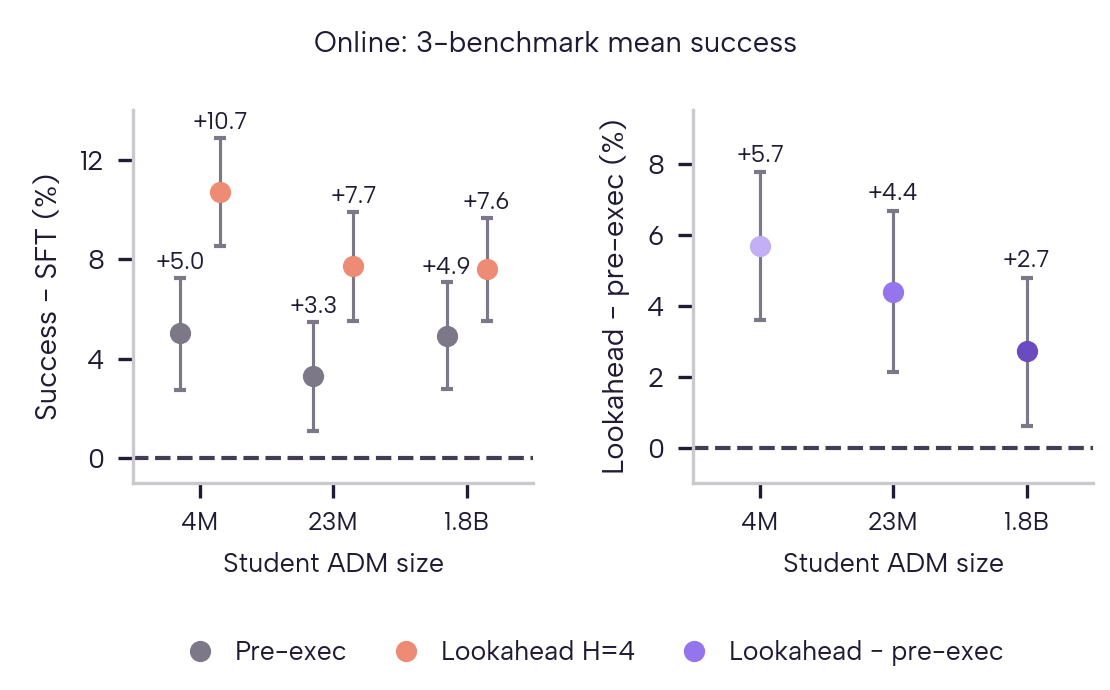
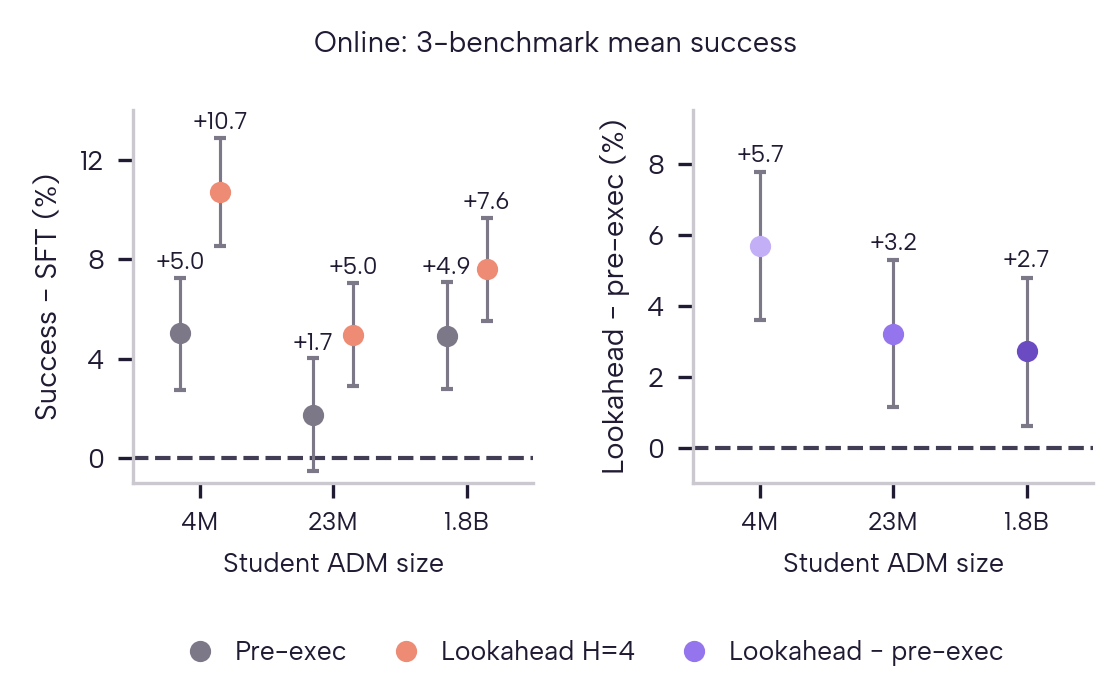
Use earliest 23M pre-execution and lookahead deltas in paper plot

diff --git a/openwebrl/docs/arm_results/rl_integration/selection-head-pre-vs-lookahead-paper-4m-1p8b-20261115-plot.py b/openwebrl/docs/arm_results/rl_integration/selection-head-pre-vs-lookahead-paper-4m-1p8b-20261115-plot.py
@@ -1,8 +1,9 @@
 #!/usr/bin/env python3
-"""Paper comparison at 4.4M, 22.6M and 1.8B: gains over SFT and paired
-lookahead minus pre-execution differences, with task-paired 95% intervals.
-Three runs per condition in the November 14–15 window. The pooled contrast is
-retained in the document caption only; the figure shows per-size estimates.
+"""Delta view with the earliest Recipe 3 GPT-5.5 pre/lookahead 23M runs.
+23M uses the original p16-heads-all-20261102 evaluation and its source paired
+intervals against the original SFT control; 4M and 1.8B retain November 14–15
+results. All means weight the three benchmarks equally, three runs per method.
+Cross-window differences between sizes must not be interpreted as size effects.
 """
 import json
 from pathlib import Path
@@ -18,6 +19,23 @@ from matplotlib.lines import Line2D
 plt.rcParams.update({"font.family": "Albert Sans", "pdf.fonttype": 42, "ps.fonttype": 42, "svg.fonttype": "none"})
 HERE = Path(__file__).resolve().parent
 D = json.loads((HERE / "selection-head-pre-vs-lookahead-20261115.json").read_text())
+EARLY = json.loads((HERE.parent / "luna_pre_vs_k3p_20261103/live_3run_20261103.json").read_text())
+
+
+def actor_gain(k, label):
+    if k == "d512":
+        arm = "GPT-5.5 pre head" if label == "pre" else "GPT-5.5 K=3 head"
+        return EARLY["paired"][f"{arm} - SFT (1 sample)"]["avg"]
+    return D["conditions"][f"{k}-{label}"]["minus_sft"]["mean_overall_pp"]
+
+
+def label_gain(k):
+    if k == "d512":
+        return EARLY["paired"]["GPT-5.5 K=3 head - GPT-5.5 pre head"]["avg"]
+    pt, lo, hi = D["contrasts"][f"{k}: pre - lookahead"]["mean_overall_pp"]
+    return -pt, -hi, -lo
+
+
 INK, MUTED = C["INK"], C["MUTED"]
 KEYS = ["d128", "d512", "d4096"]
 SIZES = ["4M", "23M", "1.8B"]
@@ -35,11 +53,10 @@ def point(ax, x, v, color, marker="o", label_dy=0.15, label=True, ms=4.1, bold=F
 
 fig, (a1, a2) = plt.subplots(1, 2, figsize=(3.7, 2.3), gridspec_kw=dict(width_ratios=[1, 1], wspace=0.40))
 for x, k in enumerate(KEYS):
-    point(a1, x - 0.15, D["conditions"][f"{k}-pre"]["minus_sft"]["mean_overall_pp"], PRE)
-    point(a1, x + 0.15, D["conditions"][f"{k}-lookahead"]["minus_sft"]["mean_overall_pp"], LOOK)
-diffs = [D["contrasts"][f"{k}: pre - lookahead"]["mean_overall_pp"] for k in KEYS]
-for x, (pt, lo, hi) in enumerate(diffs):
-    point(a2, x, (-pt, -hi, -lo), PURPLES[x])
+    point(a1, x - 0.15, actor_gain(k, "pre"), PRE)
+    point(a1, x + 0.15, actor_gain(k, "lookahead"), LOOK)
+for x, k in enumerate(KEYS):
+    point(a2, x, label_gain(k), PURPLES[x])
 for ax, title, ticks in ((a1, "", SIZES), (a2, "", SIZES)):
     ax.axhline(0, color=MUTED, lw=1, ls="--", zorder=0)
     ax.set_title(title, fontsize=7, loc="left", color=INK, pad=6)

diff --git a/openwebrl/docs/ARM_FINAL_RESULTS.md b/openwebrl/docs/ARM_FINAL_RESULTS.md
@@ -1720,7 +1720,7 @@ All four attention × scorer × loss combinations plus causal attention, one run
 
 ![Paper version variant with 4M, 23M and 1.8B heads: student ADM success minus SFT with lookahead and pre-execution labels, and the paired lookahead minus pre-execution difference](arm_results/rl_integration/selection-head-pre-vs-lookahead-paper-4m-1p8b-20261115.png)
 
-*Variant with the 4M (4.4M), 23M (22.6M) and 1.8B heads, leaving out the 23K probe: Pre-execution is plotted on the left and lookahead on the right within each size pair, with gains labeled above the intervals. The SFT reference (reported in this caption only) is 35.0% mean overall success (34.9617% before rounding), averaging the three benchmarks equally in this November 14–15 evaluation window; it differs from the November 1–3 label-setup comparison’s 39.9% SFT reference. The figure shows only per-size estimates; the pooled lookahead − pre-execution contrast is reported here only: +4.3 [+3.0, +5.5] pp. The 4M lookahead head is the lucky training seed 0. [PDF](arm_results/rl_integration/selection-head-pre-vs-lookahead-paper-4m-1p8b-20261115.pdf) · [SVG](arm_results/rl_integration/selection-head-pre-vs-lookahead-paper-4m-1p8b-20261115.svg) · [plot script](arm_results/rl_integration/selection-head-pre-vs-lookahead-paper-4m-1p8b-20261115-plot.py) · [3-size data](arm_results/rl_integration/selection-head-pre-vs-lookahead-3sizes-4m-1p8b-20261115.json) ([script](arm_results/rl_integration/selection-head-pre-vs-lookahead-3sizes-4m-1p8b-20261115.py)).*
+*Delta view using the earliest Recipe 3 GPT-5.5 23M (22.6M) pre-execution/lookahead heads, as requested. Left: 23M pre-execution − SFT +1.7 [−0.5, +4.0] pp and lookahead − SFT +5.0 [+2.9, +7.1] pp; right: paired lookahead − pre-execution +3.2 [+1.1, +5.3] pp. These are the original 41.3% / 44.5% overall-success rows, evaluated in `p16-heads-all-20261102`, with the original 39.6% SFT control. The 4M and 1.8B points and paired intervals retain the November 14–15 window, each relative to that window's own SFT control. All results use the full benchmark populations, three runs, equal benchmark weights and overall success (invalid = failure). Intervals come directly from each cohort's saved task-paired bootstrap; no pooled contrast is shown. Because windows differ, compare the pre/lookahead effect within each size; this figure does not establish a head-size effect. The 4M lookahead head is training seed 0. `%` denotes differences of percentage-valued success rates (percentage points). [Original 23M rates and paired intervals](arm_results/luna_pre_vs_k3p_20261103/live_3run_20261103.json) · [Later-window data](arm_results/rl_integration/selection-head-pre-vs-lookahead-20261115.json) · [PDF](arm_results/rl_integration/selection-head-pre-vs-lookahead-paper-4m-1p8b-20261115.pdf) · [SVG](arm_results/rl_integration/selection-head-pre-vs-lookahead-paper-4m-1p8b-20261115.svg) · [Renderer](arm_results/rl_integration/selection-head-pre-vs-lookahead-paper-4m-1p8b-20261115-plot.py).*
 
 **Alternative: absolute success on the left, paired label effect on the right**
 

diff --git a/openwebrl/docs/ARM_HEAD_SIZE_ABLATIONS.md b/openwebrl/docs/ARM_HEAD_SIZE_ABLATIONS.md
@@ -94,7 +94,7 @@ All success rates in this document are **overall success** (successes / episodes
 
 ![Paper version variant with 4M, 23M and 1.8B heads: student ADM success minus SFT with lookahead and pre-execution labels, and the paired lookahead minus pre-execution difference](arm_results/rl_integration/selection-head-pre-vs-lookahead-paper-4m-1p8b-20261115.png)
 
-*Variant with the 4M (4.4M), 23M (22.6M) and 1.8B heads, leaving out the 23K probe: lookahead − pre-execution pooled over these three sizes is +4.3 [+3.0, +5.5] pp. The 4M lookahead head is the lucky training seed 0. [PDF](arm_results/rl_integration/selection-head-pre-vs-lookahead-paper-4m-1p8b-20261115.pdf) · [SVG](arm_results/rl_integration/selection-head-pre-vs-lookahead-paper-4m-1p8b-20261115.svg) · [plot script](arm_results/rl_integration/selection-head-pre-vs-lookahead-paper-4m-1p8b-20261115-plot.py) · [3-size data](arm_results/rl_integration/selection-head-pre-vs-lookahead-3sizes-4m-1p8b-20261115.json) ([script](arm_results/rl_integration/selection-head-pre-vs-lookahead-3sizes-4m-1p8b-20261115.py)).*
+*Delta view using the earliest Recipe 3 GPT-5.5 23M (22.6M) pre-execution/lookahead heads, as requested. Left: 23M pre-execution − SFT +1.7 [−0.5, +4.0] pp and lookahead − SFT +5.0 [+2.9, +7.1] pp; right: paired lookahead − pre-execution +3.2 [+1.1, +5.3] pp. These are the original 41.3% / 44.5% overall-success rows, evaluated in `p16-heads-all-20261102`, with the original 39.6% SFT control. The 4M and 1.8B points and paired intervals retain the November 14–15 window, each relative to that window's own SFT control. All results use the full benchmark populations, three runs, equal benchmark weights and overall success (invalid = failure). Intervals come directly from each cohort's saved task-paired bootstrap; no pooled contrast is shown. Because windows differ, compare the pre/lookahead effect within each size; this figure does not establish a head-size effect. The 4M lookahead head is training seed 0. `%` denotes differences of percentage-valued success rates (percentage points). [Original 23M rates and paired intervals](arm_results/luna_pre_vs_k3p_20261103/live_3run_20261103.json) · [Later-window data](arm_results/rl_integration/selection-head-pre-vs-lookahead-20261115.json) · [PDF](arm_results/rl_integration/selection-head-pre-vs-lookahead-paper-4m-1p8b-20261115.pdf) · [SVG](arm_results/rl_integration/selection-head-pre-vs-lookahead-paper-4m-1p8b-20261115.svg) · [Renderer](arm_results/rl_integration/selection-head-pre-vs-lookahead-paper-4m-1p8b-20261115-plot.py).*
 
 ![Pre-execution vs lookahead labels across selection-head sizes: each head minus SFT 4B alone, and the paired lookahead − pre-execution difference per size](arm_results/rl_integration/selection-head-pre-vs-lookahead-20261115.png)
 
